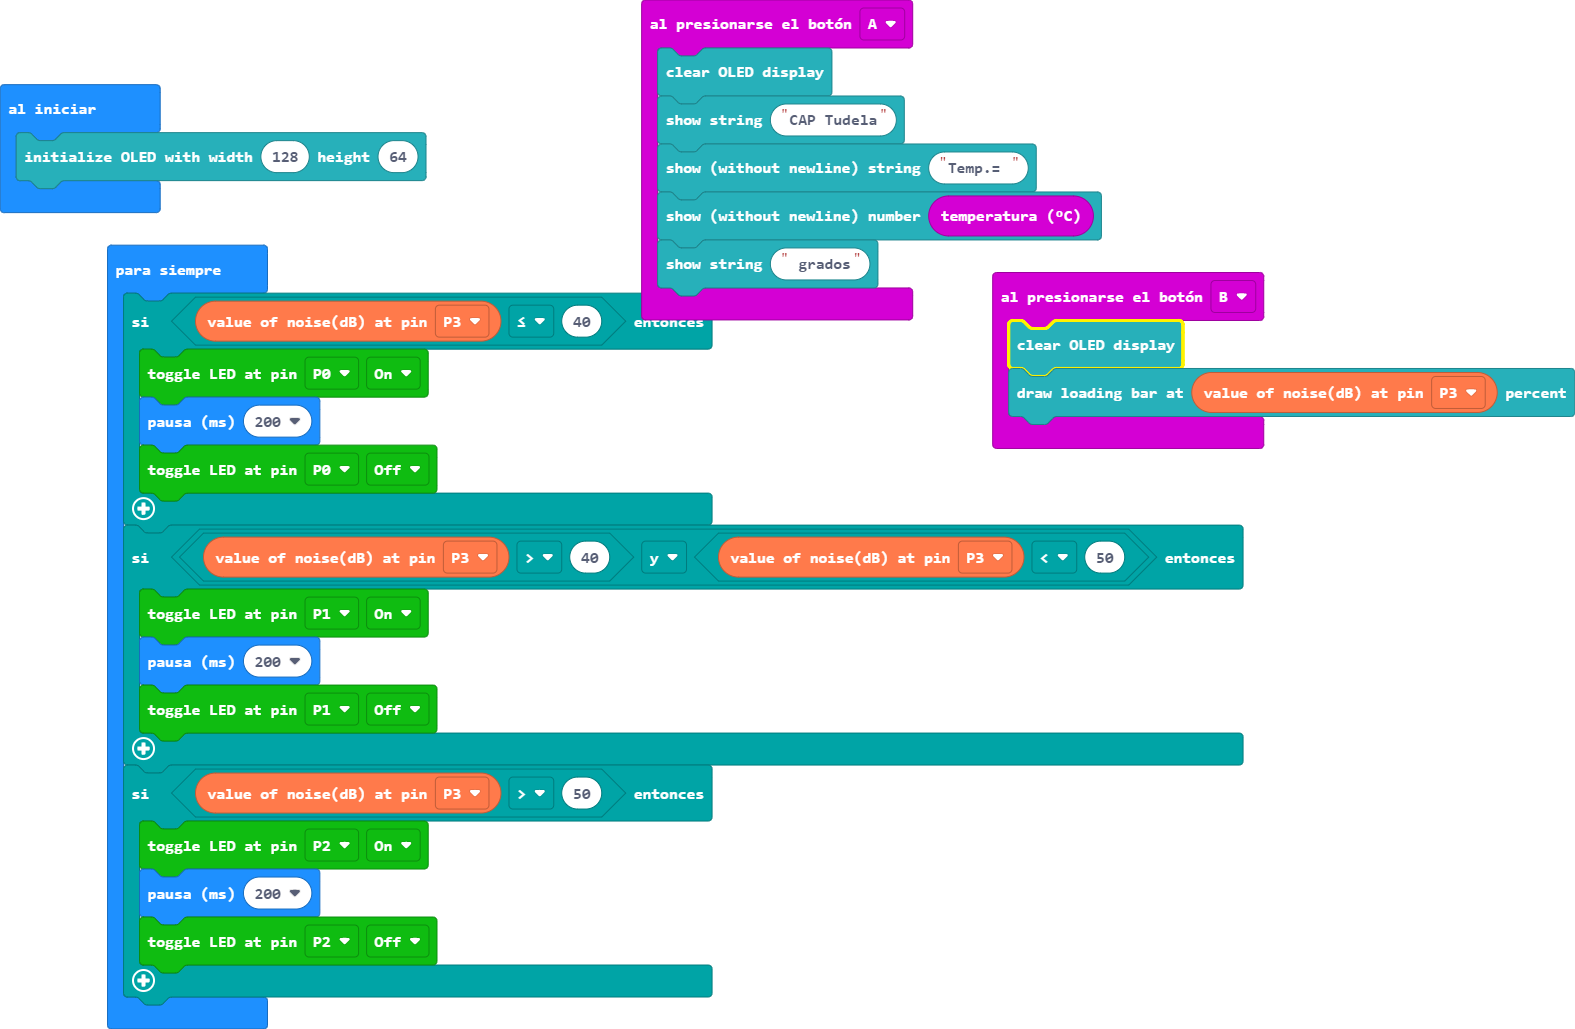
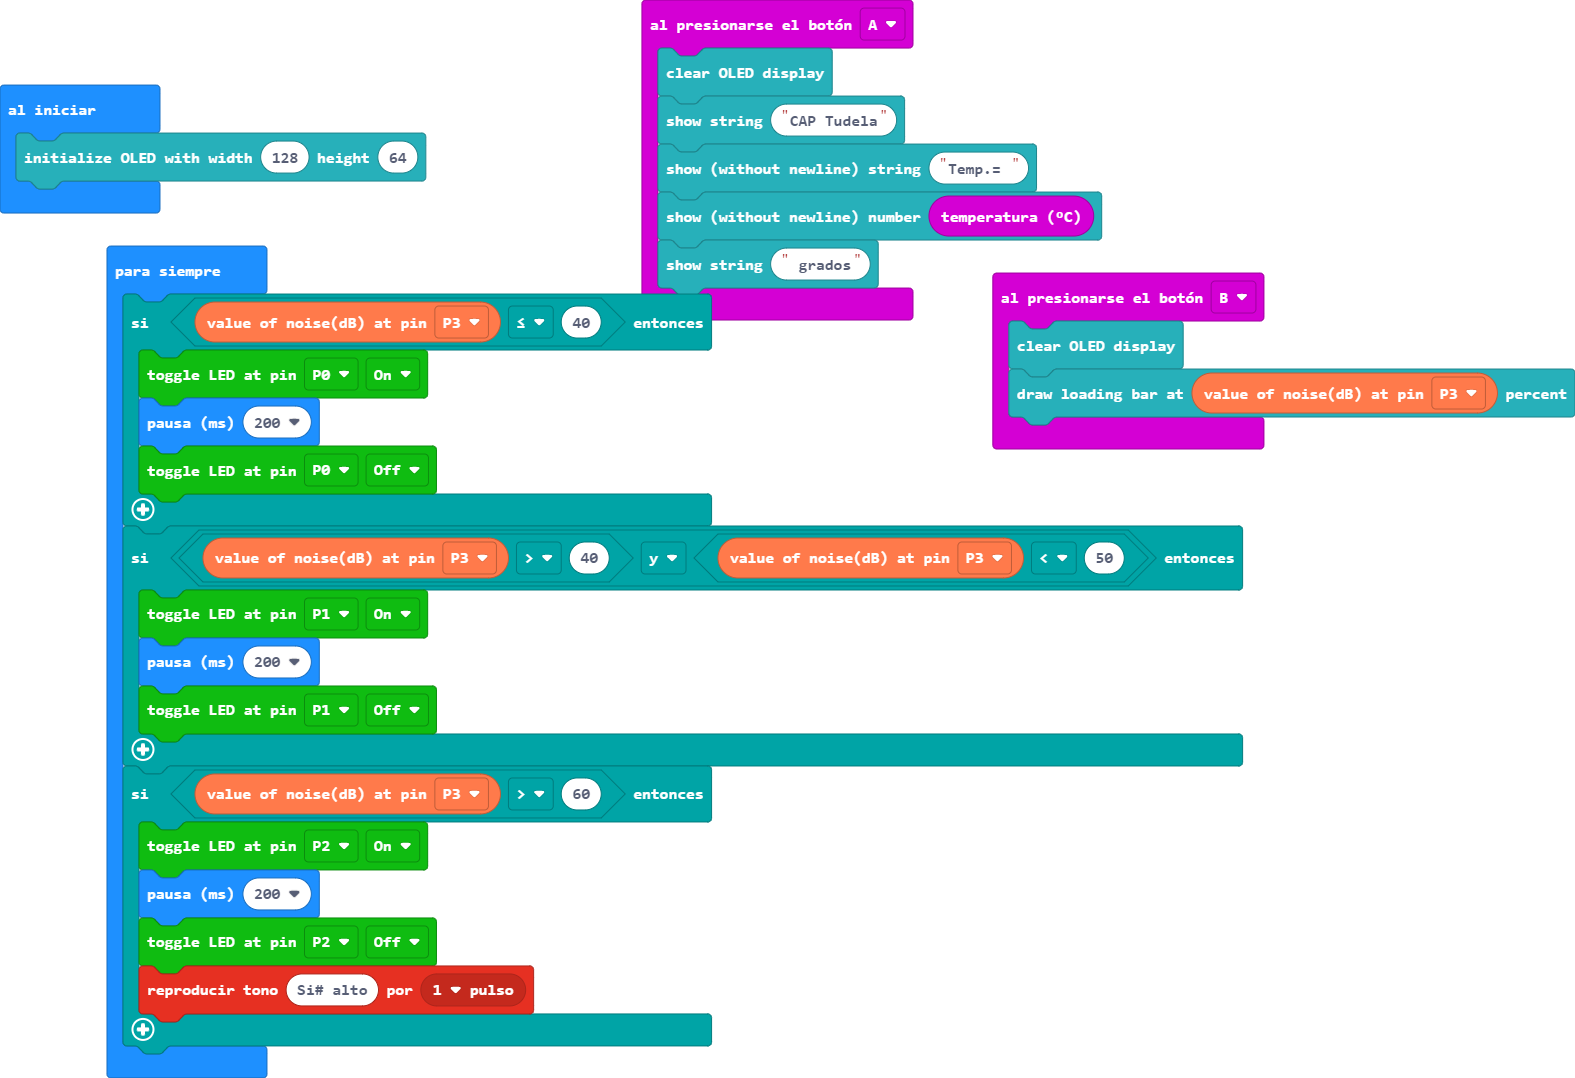
Actualizar main.blocks, main.ts

Changed region(s): [[0.0, 0.0, 1.0, 0.9951]]

diff --git a/main.ts b/main.ts
@@ -21,9 +21,10 @@ basic.forever(function () {
         basic.pause(200)
         tinkercademy.LED(DigitalPin.P1, OnOff.Off)
     }
-    if (Environment.ReadNoise(AnalogPin.P3) > 50) {
+    if (Environment.ReadNoise(AnalogPin.P3) > 60) {
         tinkercademy.LED(DigitalPin.P2, OnOff.On)
         basic.pause(200)
         tinkercademy.LED(DigitalPin.P2, OnOff.Off)
+        music.playTone(988, music.beat(BeatFraction.Whole))
     }
 })
